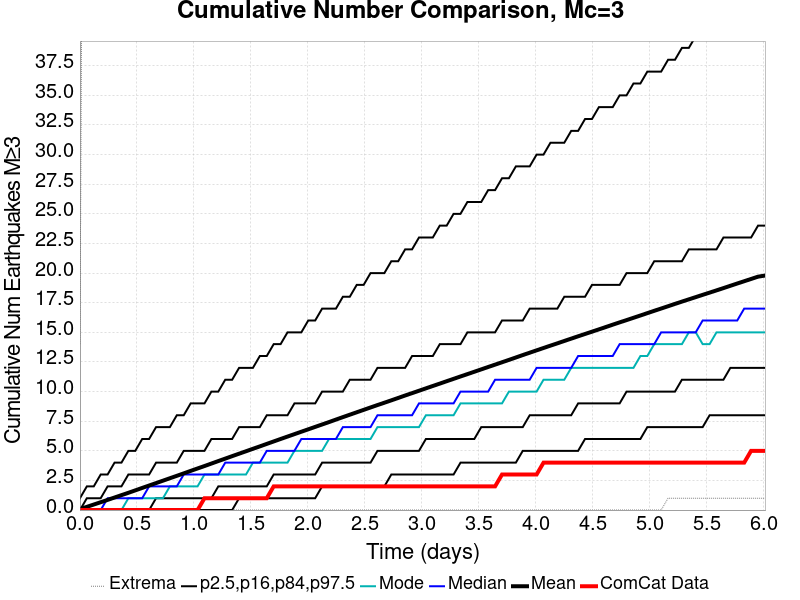
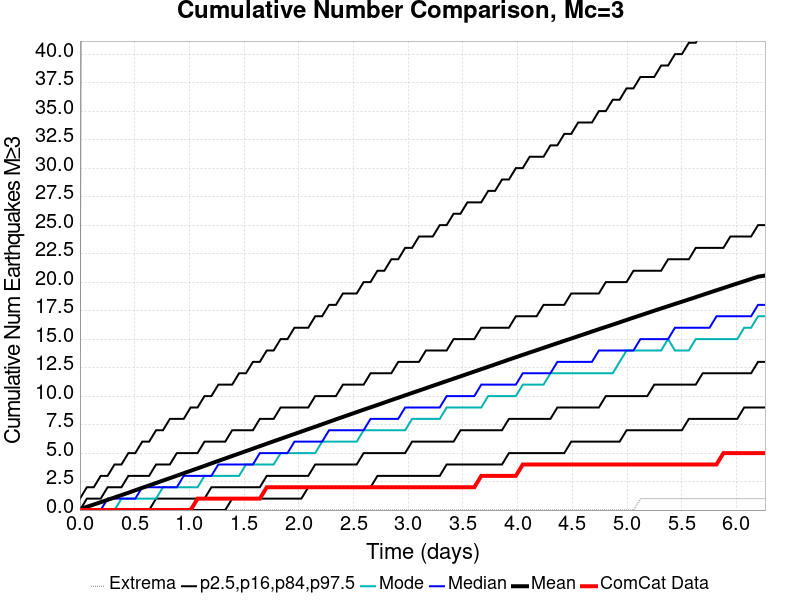
automatic plot and index update from opensha.usc.edu

diff --git a/2019_08_03-ComCatM7p1_ci38457511_28DaysAfter_ShakeMapSurfaces-noSpont-full_td-scale1.14/index.html b/2019_08_03-ComCatM7p1_ci38457511_28DaysAfter_ShakeMapSurfaces-noSpont-full_td-scale1.14/index.html
@@ -762,15 +762,15 @@ img {
 <p><em><a href="#table-of-contents">(top)</a></em></p>
 <table>
 <thead>
-<tr><th></th><th>1 Day</th><th>6 Day</th></tr>
+<tr><th></th><th>1 Day</th><th>6.3 Day</th></tr>
 </thead>
 <tbody>
-<tr><td><strong>M≥3</strong></td><td><img src="plots/comcat_compare_mean_1d_m3.png" alt="Map" /></td><td><img src="plots/comcat_compare_mean_6d_m3.png" alt="Map" /></td></tr>
-<tr><td><strong>M≥4</strong></td><td><img src="plots/comcat_compare_mean_1d_m4.png" alt="Map" /></td><td><img src="plots/comcat_compare_mean_6d_m4.png" alt="Map" /></td></tr>
-<tr><td><strong>M≥5</strong></td><td><img src="plots/comcat_compare_mean_1d_m5.png" alt="Map" /></td><td><img src="plots/comcat_compare_mean_6d_m5.png" alt="Map" /></td></tr>
-<tr><td><strong>M≥6</strong></td><td><img src="plots/comcat_compare_mean_1d_m6.png" alt="Map" /></td><td><img src="plots/comcat_compare_mean_6d_m6.png" alt="Map" /></td></tr>
-<tr><td><strong>M≥7</strong></td><td><img src="plots/comcat_compare_mean_1d_m7.png" alt="Map" /></td><td><img src="plots/comcat_compare_mean_6d_m7.png" alt="Map" /></td></tr>
-<tr><td><strong>M≥8</strong></td><td><img src="plots/comcat_compare_mean_1d_m8.png" alt="Map" /></td><td><img src="plots/comcat_compare_mean_6d_m8.png" alt="Map" /></td></tr>
+<tr><td><strong>M≥3</strong></td><td><img src="plots/comcat_compare_mean_1d_m3.png" alt="Map" /></td><td><img src="plots/comcat_compare_mean_6.3d_m3.png" alt="Map" /></td></tr>
+<tr><td><strong>M≥4</strong></td><td><img src="plots/comcat_compare_mean_1d_m4.png" alt="Map" /></td><td><img src="plots/comcat_compare_mean_6.3d_m4.png" alt="Map" /></td></tr>
+<tr><td><strong>M≥5</strong></td><td><img src="plots/comcat_compare_mean_1d_m5.png" alt="Map" /></td><td><img src="plots/comcat_compare_mean_6.3d_m5.png" alt="Map" /></td></tr>
+<tr><td><strong>M≥6</strong></td><td><img src="plots/comcat_compare_mean_1d_m6.png" alt="Map" /></td><td><img src="plots/comcat_compare_mean_6.3d_m6.png" alt="Map" /></td></tr>
+<tr><td><strong>M≥7</strong></td><td><img src="plots/comcat_compare_mean_1d_m7.png" alt="Map" /></td><td><img src="plots/comcat_compare_mean_6.3d_m7.png" alt="Map" /></td></tr>
+<tr><td><strong>M≥8</strong></td><td><img src="plots/comcat_compare_mean_1d_m8.png" alt="Map" /></td><td><img src="plots/comcat_compare_mean_6.3d_m8.png" alt="Map" /></td></tr>
 </tbody>
 </table>
 <h3 id="comcat-depth-distribution">ComCat Depth Distribution</h3>

diff --git a/index.html b/index.html
@@ -25,7 +25,7 @@ img {
 <tr><th>Config Date</th><th>Name</th><th>Sim Start Date</th><th># Simulations</th><th>Progress</th><th>Plot Date</th></tr>
 </thead>
 <tbody>
-<tr><td>2019/08/03</td><td><a href="2019_08_03-ComCatM7p1_ci38457511_28DaysAfter_ShakeMapSurfaces-noSpont-full_td-scale1.14/index.html">ComCat M7.1 (ci38457511), 28 Days After, ShakeMap Surfaces</a></td><td>2019/08/02</td><td>100000</td><td>Done</td><td>2019/08/08</td></tr>
+<tr><td>2019/08/03</td><td><a href="2019_08_03-ComCatM7p1_ci38457511_28DaysAfter_ShakeMapSurfaces-noSpont-full_td-scale1.14/index.html">ComCat M7.1 (ci38457511), 28 Days After, ShakeMap Surfaces</a></td><td>2019/08/02</td><td>100000</td><td>Done</td><td>2019/08/09</td></tr>
 <tr><td>2019/07/27</td><td><a href="2019_07_27-ComCatM7p1_ci38457511_21DaysAfter_ShakeMapSurfaces-noSpont-full_td-scale1.14/index.html">ComCat M7.1 (ci38457511), 21 Days After, ShakeMap Surfaces</a></td><td>2019/07/26</td><td>100000</td><td>Done</td><td>2019/08/09</td></tr>
 <tr><td>2019/07/25</td><td><a href="2019_07_25-ComCatM7p1_ci38457511_19p6DaysAfter_ShakeMapSurfaces-noSpont-full_td-scale1.14/index.html">ComCat M7.1 (ci38457511), 19.6 Days After, ShakeMap Surfaces</a></td><td>2019/07/25</td><td>100000</td><td>Done</td><td>2019/08/09</td></tr>
 <tr><td>2019/07/18</td><td><a href="2019_07_18-ComCatM7p1_ci38457511_InvertedSurface_ShakeMapSurface-noSpont-full_td-scale1.14/index.html">ComCat M7.1 (ci38457511), Inverted Surface, ShakeMap Surface</a></td><td>2019/07/05</td><td>100000</td><td>Done</td><td>2019/08/05</td></tr>

diff --git a/2019_08_03-ComCatM7p1_ci38457511_28DaysAfter_ShakeMapSurfaces-noSpont-full_td-scale1.14/README.md b/2019_08_03-ComCatM7p1_ci38457511_28DaysAfter_ShakeMapSurfaces-noSpont-full_td-scale1.14/README.md
@@ -704,14 +704,14 @@ These plots compare simulated sequences with data from ComCat. All plots only co
 ### ComCat Mean Spatial Distribution
 *[(top)](#table-of-contents)*
 
-|  | 1 Day | 6 Day |
+|  | 1 Day | 6.3 Day |
 |-----|-----|-----|
-| **M≥3** | ![Map](plots/comcat_compare_mean_1d_m3.png) | ![Map](plots/comcat_compare_mean_6d_m3.png) |
-| **M≥4** | ![Map](plots/comcat_compare_mean_1d_m4.png) | ![Map](plots/comcat_compare_mean_6d_m4.png) |
-| **M≥5** | ![Map](plots/comcat_compare_mean_1d_m5.png) | ![Map](plots/comcat_compare_mean_6d_m5.png) |
-| **M≥6** | ![Map](plots/comcat_compare_mean_1d_m6.png) | ![Map](plots/comcat_compare_mean_6d_m6.png) |
-| **M≥7** | ![Map](plots/comcat_compare_mean_1d_m7.png) | ![Map](plots/comcat_compare_mean_6d_m7.png) |
-| **M≥8** | ![Map](plots/comcat_compare_mean_1d_m8.png) | ![Map](plots/comcat_compare_mean_6d_m8.png) |
+| **M≥3** | ![Map](plots/comcat_compare_mean_1d_m3.png) | ![Map](plots/comcat_compare_mean_6.3d_m3.png) |
+| **M≥4** | ![Map](plots/comcat_compare_mean_1d_m4.png) | ![Map](plots/comcat_compare_mean_6.3d_m4.png) |
+| **M≥5** | ![Map](plots/comcat_compare_mean_1d_m5.png) | ![Map](plots/comcat_compare_mean_6.3d_m5.png) |
+| **M≥6** | ![Map](plots/comcat_compare_mean_1d_m6.png) | ![Map](plots/comcat_compare_mean_6.3d_m6.png) |
+| **M≥7** | ![Map](plots/comcat_compare_mean_1d_m7.png) | ![Map](plots/comcat_compare_mean_6.3d_m7.png) |
+| **M≥8** | ![Map](plots/comcat_compare_mean_1d_m8.png) | ![Map](plots/comcat_compare_mean_6.3d_m8.png) |
 
 ### ComCat Depth Distribution
 *[(top)](#table-of-contents)*

diff --git a/README.md b/README.md
@@ -2,7 +2,7 @@
 
 | Config Date | Name | Sim Start Date | # Simulations | Progress | Plot Date |
 |-----|-----|-----|-----|-----|-----|
-| 2019/08/03 | [ComCat M7.1 (ci38457511), 28 Days After, ShakeMap Surfaces](2019_08_03-ComCatM7p1_ci38457511_28DaysAfter_ShakeMapSurfaces-noSpont-full_td-scale1.14/README.md) | 2019/08/02 | 100000 | Done | 2019/08/08 |
+| 2019/08/03 | [ComCat M7.1 (ci38457511), 28 Days After, ShakeMap Surfaces](2019_08_03-ComCatM7p1_ci38457511_28DaysAfter_ShakeMapSurfaces-noSpont-full_td-scale1.14/README.md) | 2019/08/02 | 100000 | Done | 2019/08/09 |
 | 2019/07/27 | [ComCat M7.1 (ci38457511), 21 Days After, ShakeMap Surfaces](2019_07_27-ComCatM7p1_ci38457511_21DaysAfter_ShakeMapSurfaces-noSpont-full_td-scale1.14/README.md) | 2019/07/26 | 100000 | Done | 2019/08/09 |
 | 2019/07/25 | [ComCat M7.1 (ci38457511), 19.6 Days After, ShakeMap Surfaces](2019_07_25-ComCatM7p1_ci38457511_19p6DaysAfter_ShakeMapSurfaces-noSpont-full_td-scale1.14/README.md) | 2019/07/25 | 100000 | Done | 2019/08/09 |
 | 2019/07/18 | [ComCat M7.1 (ci38457511), Inverted Surface, ShakeMap Surface](2019_07_18-ComCatM7p1_ci38457511_InvertedSurface_ShakeMapSurface-noSpont-full_td-scale1.14/README.md) | 2019/07/05 | 100000 | Done | 2019/08/05 |
